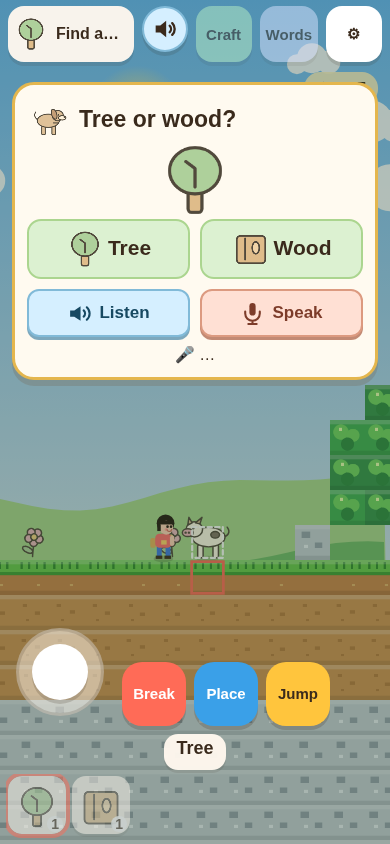
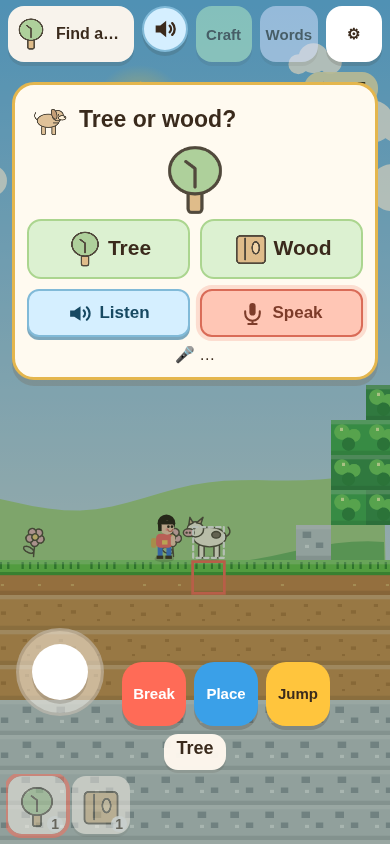
Polish microphone recording feedback and weather visuals

diff --git a/index.html b/index.html
@@ -450,6 +450,9 @@
   #chat-listen svg, #chat-mic svg, #buddy-mic svg, #name-mic svg { width: 25px; height: 25px; flex-shrink: 0; }
   #chat-listen:active, #chat-mic:active, #buddy-mic:active, #name-mic:active { transform: translateY(2px); box-shadow: none; }
   #chat-listen:disabled, #chat-mic:disabled, #buddy-mic:disabled, #name-mic:disabled { opacity: .5; box-shadow: none; }
+  #chat-mic.mic-recording, #buddy-mic.mic-recording, #name-mic.mic-recording { opacity: 1; background: #ffc6b5; border-color: #d96b57; box-shadow: 0 0 0 4px #f2877040; animation: mic-pulse 1.3s ease-in-out infinite; }
+  @keyframes mic-pulse { 50% { scale: 1.045; box-shadow: 0 0 0 9px #f2877015, 0 0 16px #ef826580; } }
+  #chat-mic.mic-recording:active, #buddy-mic.mic-recording:active, #name-mic.mic-recording:active { transform: translateY(2px); box-shadow: none !important; }
   #welcome { max-height: calc(100dvh - 90px - var(--sab)); overflow-y: auto; touch-action: pan-y; }
   #name-entry[hidden], #buddy-chat[hidden] { display: none; }
   #name-form { display: flex; align-items: center; gap: 6px; flex-wrap: wrap; }
@@ -463,6 +466,8 @@
   @keyframes buddy-wave { 25%, 75% { transform: translateY(-8px) rotate(-12deg); } 50% { transform: translateY(-5px) rotate(12deg); } }
   #buddy-chat { position: absolute; z-index: 39; top: calc(78px + var(--sat)); left: 50%; transform: translateX(-50%); width: min(380px, calc(100% - 28px)); padding: 14px; border-radius: 22px; background: #fffaf2; border: 3px solid #e6bb70; box-shadow: 0 5px 18px #5a39152b; text-align: center; max-height: calc(100dvh - 90px); overflow-y: auto; }
   #buddy-line { margin: 0 0 10px; font-size: 23px; font-weight: bold; }
+  #buddy-picture { display: block; width: 76px; height: 76px; margin: 0 auto 8px; }
+  #buddy-picture[hidden] { display: none; }
   #buddy-chat button { min-height: 48px; min-width: 64px; border-radius: 13px; padding: 8px 14px; font: inherit; background: #dcf1d1; margin: 3px; }
   #buddy-options { display: flex; justify-content: center; gap: 10px; }
   @media (max-height: 450px) { #name-letters { grid-template-columns: repeat(13, 1fr); } #name-letters button { min-height: 28px; } #btn-buddy { top: calc(110px + var(--sat)); } }
@@ -519,6 +524,7 @@
   </section>
   <button id="btn-buddy" type="button" aria-label="Chat with Buddy">Buddy</button>
   <section id="buddy-chat" hidden aria-label="Buddy chat">
+    <canvas id="buddy-picture" width="128" height="128" hidden role="img" aria-label="Weather picture"></canvas>
     <p id="buddy-line" role="status" aria-live="polite"></p><div id="buddy-options"></div>
     <button id="buddy-mic" type="button" aria-label="Speak to Buddy"><svg viewBox="0 0 24 24" aria-hidden="true"><rect x="9" y="2" width="6" height="12" rx="3" fill="currentColor"/><path d="M5 10v2a7 7 0 0 0 14 0v-2M12 19v3m-4 0h8" fill="none" stroke="currentColor" stroke-width="2" stroke-linecap="round"/></svg><span>Speak</span></button><button id="buddy-close" type="button" aria-label="Keep playing">OK!</button>
   </section>
@@ -736,7 +742,7 @@ const BRAIN_TIMEOUT_MS = 6500;
   var swimPhase = 0, wasSwim = false, splashT = 0;
   var crops = [], boat = null, riding = false, fishing = null, boatPhase = 0, packSeen = false;
   var sunPos = { x: 0, y: 0 }, moonPos = { x: 0, y: 0 }, sunOn = false, moonOn = false, starPos = [], cloudPos = [];
-  var rainOn = false, rainTimer = 26;
+  var rainOn = false, rainTimer = 26, rainbowLeft = 0, nightWeatherCount = 0;
   var fps = 0, fpsN = 0, fpsT = 0, frameErr = '';
   var armReset = false;
   var lastTs = 0;
@@ -824,9 +830,11 @@ function validConversation(value, p) {
     return 'idle';
   }
   function socialPayload(event) { return { event: event, child_name: childName, scene: sceneNow || 'grass', prefs: Object.assign({}, memory.prefs), recent_events: recentEvents.slice(-6) }; }
+  function micRecording(id, active) { document.getElementById(id).classList.toggle('mic-recording', active); }
   function stopSocialListening() {
     clearTimeout(socialWatchdog); socialWatchdog = null;
-    if (socialRecognizer) { var r = socialRecognizer; socialRecognizer = null; r.onresult = r.onerror = r.onend = null; try { r.abort(); } catch (err) { /* optional */ } }
+    if (socialRecognizer) { var r = socialRecognizer; socialRecognizer = null; r.onstart = r.onresult = r.onerror = r.onend = null; try { r.abort(); } catch (err) { /* optional */ } }
+    micRecording('buddy-mic', false); micRecording('name-mic', false);
     document.getElementById('buddy-mic').disabled = false; document.getElementById('name-mic').disabled = false;
   }
   function cancelSocial(w) { if (!w) return; clearTimeout(w.timer); clearTimeout(w.hintTimer); clearTimeout(w.deadline); if (w.controller) w.controller.abort(); }
@@ -886,6 +894,9 @@ function validConversation(value, p) {
     dismissGreeting(); closeAmbient();
     var w = { payload: p }; ambient = w;
     document.getElementById('buddy-chat').hidden = false;
+    var picture = document.getElementById('buddy-picture');
+    picture.hidden = p.event !== 'weather_chat';
+    if (!picture.hidden) { paintIcon(picture, p.weather); picture.setAttribute('aria-label', WORD[p.weather][0]); }
     var root = document.getElementById('buddy-options'); root.replaceChildren();
     if (p.topic) PREF_VALUES[p.topic.slice(11)].slice(0, 2).forEach(function (word) {
       var b = document.createElement('button'); b.type = 'button'; b.textContent = word; b.dataset.pref = word;
@@ -926,9 +937,15 @@ function validConversation(value, p) {
   function weatherChat() {
     if (determineMode('weather') !== 'weather_chat' || welcome || ambient) return false;
     var p = socialPayload('weather_chat');
-    p.weather = rainOn ? 'rain' : nightFactor(timeOfDay) >= 0.6 ? 'moon' : cloudPos.length && !sunOn ? 'cloud' : 'sun';
+    p.weather = weatherKey();
     p.time_of_day = nightFactor(timeOfDay) >= 0.6 ? 'evening' : timeOfDay < 0.5 ? 'morning' : 'afternoon';
     memory.weather_chat_done = true; save(); return showAmbient(p);
+  }
+  function weatherKey() {
+    if (rainOn) return 'rain';
+    if (nightFactor(timeOfDay) >= 0.6) return starPos.length && nightWeatherCount++ % 2 === 0 ? 'star' : 'moon';
+    // Daylight clouds count when they cross the sun, rather than only at night.
+    return cloudPos.some(function (c) { return Math.abs(c.x - sunPos.x) < 42 * c.scale && Math.abs(c.y - sunPos.y) < 24 * c.scale; }) ? 'cloud' : 'sun';
   }
   function listenSocial() {
     if ((!nameFlow && determineMode('speech') !== 'recast') || socialRecognizer) return;
@@ -939,6 +956,7 @@ function validConversation(value, p) {
     try {
       var r = new SR(); socialRecognizer = r; r.lang = 'en-US'; r.interimResults = false; r.continuous = false;
       document.getElementById(n ? 'name-mic' : 'buddy-mic').disabled = true;
+      r.onstart = function () { if (socialRecognizer === r) micRecording(n ? 'name-mic' : 'buddy-mic', true); };
       if (window.speechSynthesis) speechSynthesis.cancel();
       r.onresult = function (e) {
         var result = e.results[e.resultIndex || 0], said = result && result[0] && result[0].transcript;
@@ -1277,10 +1295,11 @@ function validConversation(value, p) {
     if (chatQueue.length > 2) chatQueue.shift();
   }
   function stopChatListening() {
+    micRecording('chat-mic', false);
     if (recognitionTimer) { clearTimeout(recognitionTimer); recognitionTimer = null; }
     if (chatRecognizer) {
       var r = chatRecognizer; chatRecognizer = null;
-      r.onresult = r.onerror = r.onend = null;
+      r.onstart = r.onresult = r.onerror = r.onend = null;
       try { r.abort(); } catch (err) { /* optional browser feature */ }
     }
   }
@@ -1507,6 +1526,7 @@ function validConversation(value, p) {
       var active = dialogue, r = new SR(); chatRecognizer = r;
       r.lang = 'en-US'; r.interimResults = false; r.continuous = false; r.maxAlternatives = 3;
       status.textContent = '🎤 …';
+      r.onstart = function () { if (chatRecognizer === r) micRecording('chat-mic', true); };
       r.onresult = function (e) {
         if (dialogue !== active) return;
         var result = e.results[e.resultIndex || 0], choice = '', said = '';
@@ -1514,12 +1534,12 @@ function validConversation(value, p) {
         if (choice) answerChat(choice, said);
         else retryChat(said);
       };
-      r.onerror = function () { if (dialogue === active) speechFallback(); };
-      r.onend = function () { if (chatRecognizer === r) { if (recognitionTimer) { clearTimeout(recognitionTimer); recognitionTimer = null; } chatRecognizer = null; if (dialogue === active && !active.answered && !active.pending) speechFallback(); } };
+      r.onerror = function () { stopChatListening(); if (dialogue === active) speechFallback(); };
+      r.onend = function () { if (chatRecognizer === r) { stopChatListening(); if (dialogue === active && !active.answered && !active.pending) speechFallback(); } };
       r.start();
       // Some engines never fire onend after permission or network problems.
-      recognitionTimer = setTimeout(function () { recognitionTimer = null; if (chatRecognizer === r) { chatRecognizer = null; try { r.abort(); } catch (err) { /* optional */ } if (dialogue === active && !active.answered && !active.pending) speechFallback(); } }, 8000);
-    } catch (err) { chatRecognizer = null; speechFallback(); }
+      recognitionTimer = setTimeout(function () { if (chatRecognizer === r) { stopChatListening(); if (dialogue === active && !active.answered && !active.pending) speechFallback(); } }, 8000);
+    } catch (err) { stopChatListening(); speechFallback(); }
   }
   function speechFallback() {
     if (!dialogue || dialogue.answered || dialogue.pending) return;
@@ -2969,6 +2989,24 @@ function validConversation(value, p) {
     g.fillStyle = grd;
     g.beginPath(); g.arc(x, y, r, 0, 6.3); g.fill();
   }
+  function changeRain(on) {
+    if (rainOn && !on) rainbowLeft = 18;
+    if (on) rainbowLeft = 0;
+    rainOn = on;
+  }
+  function drawRainbow(g) {
+    if (rainbowLeft <= 0 || rainOn) return;
+    var alpha = Math.min(1, (18 - rainbowLeft) / 1.2, rainbowLeft / 4) * (1 - nightFactor(timeOfDay));
+    if (alpha <= 0) return;
+    var radius = Math.min(viewW * 0.32, viewH * 0.26, 180);
+    g.save(); g.globalAlpha = alpha * 0.65; g.lineWidth = 3; g.lineCap = 'round';
+    ['#e99891', '#e9b17d', '#e4ce88', '#a9c49a', '#95c3ce', '#aca5ca', '#c4a1c2'].forEach(function (color, i) {
+      g.strokeStyle = color; g.beginPath();
+      g.arc(viewW * (viewW > 600 ? 0.72 : 0.5), viewH * 0.34, radius - i * Math.min(6, radius / 10), Math.PI, Math.PI * 2);
+      g.stroke();
+    });
+    g.restore();
+  }
   function drawFrame(sec) {
     var z = tileScreen / TILE;
     var sky = skyColors(timeOfDay);
@@ -3055,7 +3093,7 @@ function validConversation(value, p) {
       var cx = ((hash2(ci, 2, 8) * 900 + sec * (8 + ci * 3) - drawCamX * 0.15) % (viewW + 180) + viewW + 180) % (viewW + 180) - 80;
       var cy = 28 + hash2(ci, 3, 8) * viewH * 0.22;
       var sc = 0.75 + hash2(ci, 4, 8) * 0.6;
-      cloudPos.push({ x: cx, y: cy });
+      cloudPos.push({ x: cx, y: cy, scale: sc });
       ctx.globalAlpha = (rainOn ? 0.75 : 0.92) - night * 0.72;
       ctx.fillStyle = rainOn ? '#dfe8f2' : '#fff';
       ctx.beginPath();
@@ -3065,6 +3103,7 @@ function validConversation(value, p) {
       ctx.fill();
       ctx.globalAlpha = 1;
     }
+    drawRainbow(ctx);
     var hill = mixc([112, 186, 104], [30, 48, 64], night);
     var hill2 = mixc([168, 214, 140], [46, 64, 84], night);
     function hillBand(color, parallax, amp, baseY) {
@@ -4198,12 +4237,13 @@ function validConversation(value, p) {
     animatePictures(sec);
     var playing = started && !rotateBlock() && !panelOpen() && !chatBlocked();
     if (playing) {
+      rainbowLeft = Math.max(0, rainbowLeft - dt);
       rainTimer -= dt;
       if (rainTimer <= 0) {
-        rainOn = !rainOn && nightFactor(timeOfDay) < 0.6;
+        changeRain(!rainOn && nightFactor(timeOfDay) < 0.6);
         rainTimer = rainOn ? (10 + Math.random() * 7) : (30 + Math.random() * 28);
       }
-      if (nightFactor(timeOfDay) >= 0.6 && rainOn) { rainOn = false; rainTimer = 24; }
+      if (nightFactor(timeOfDay) >= 0.6 && rainOn) { changeRain(false); rainTimer = 24; }
       timeOfDay = (timeOfDay + dt / DAY_LEN) % 1;
       var left = Math.min(dt, 0.05);
       while (left > 0) {
@@ -4389,7 +4429,7 @@ function validConversation(value, p) {
       grow: function () { crops.forEach(function (c) { c.age = 99; }); },
       saveNow: function () { save(); },
       rain: function () { return rainOn; },
-      setRain: function (on) { rainOn = !!on; rainTimer = on ? 999 : 999; },
+      setRain: function (on) { changeRain(!!on); rainTimer = 999; },
       totalWords: function () { return Object.keys(WORD).length; },
       fps: function () { return fps; },
       error: function () { return frameErr; },

diff --git a/CHANGES-brain-v2.md b/CHANGES-brain-v2.md
@@ -420,3 +420,35 @@ deployed hashes match, and `.env` / protected nginx configuration are unchanged.
 HTTPS smoke: **9/9 POSTs return 200, brain/validated**, covering name_ask,
 excluded non-nouns, fishing rod in both coached tiers and cat; preflight is 204.
 Evidence: [claude-top3-smoke.json](screens/claude-top3-smoke.json).
+
+## Weather pictures and recording feedback — 2026-11-03
+
+- All three microphones (exercise, Buddy and name entry) show a coral glow and
+  gentle scale pulse after recognition starts. Shared cleanup clears the state
+  on results, end, errors, start failures, watchdog timeout and dismissal.
+  Existing pressed feedback remains; reduced motion keeps a static coral glow.
+- Weather chat now pairs its existing 3–6 word line with a small `paintIcon`
+  canvas for rain, sun, cloud, moon or star. Rain takes priority; visible stars
+  lead the alternating star/moon night topics. Daytime clouds count when they
+  cross the sun instead of relying on the formerly unreachable daytime check.
+- Clearing rain draws seven soft outlined rainbow arcs in the world sky, fading
+  in and out over 18 seconds. Night hides the rainbow; new rain clears it.
+  Rainbow is visual only: the 42-word set, offline phrase slots, daily chat
+  limits, memory and coaching behavior are unchanged.
+- Updated `screens/chat-buttons.png` with synthetic recording active and
+  `screens/weather-chat.png` with its rain icon; added
+  `screens/weather-rainbow.png`. Inspected all three captures. No physical
+  microphone or device was used.
+
+Validation: 49 backend tests, expanded `tests/memory-chat.cjs`, greeting,
+blocking-ai, brain-v2, world-v2, Chinese cleanup, playthrough and baseline
+suites pass. The memory/chat additions cover all three recording lifecycles,
+reduced motion, five weather pictures, vocabulary membership, short unchanged
+weather templates, and rainbow drawing, fading and rain/night suppression.
+The world suite passed on rerun after one timed gift-collection failure during
+concurrent browser runs. Syntax checks and `git diff --check` pass. The live
+brain-ratio suite also passes (12/14 brain responses, 2 template responses;
+synthetic dialogue, existing HTTPS endpoint).
+
+Client-only change: no brain rsync, service restart, secrets or nginx changes
+were needed. Only `codex-brain-v2` is committed and pushed.
